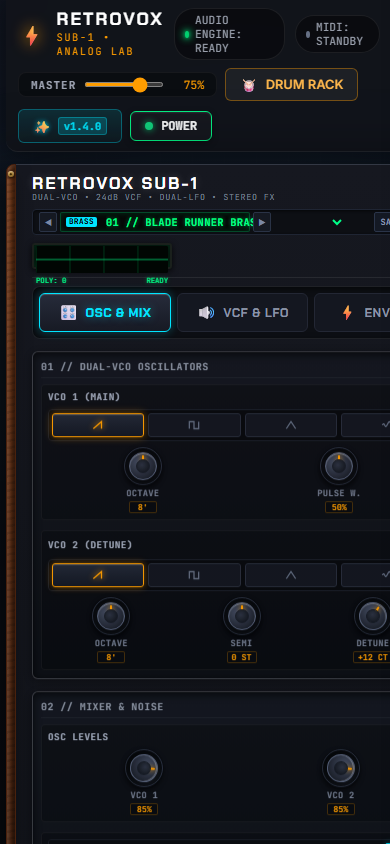
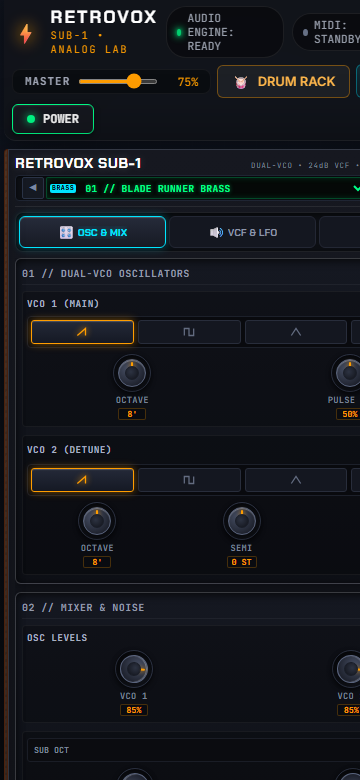
fix(audio): patch v1.6.2 with iOS/iPadOS Safari CoreAudio kickstart & resilient unlock

diff --git a/js/app.js b/js/app.js
@@ -31,7 +31,7 @@ document.addEventListener('DOMContentLoaded', () => {
   const speakerLedRight = document.getElementById('speakerLedRight');
 
   // Version & Changelog State
-  const CURRENT_APP_VERSION = '1.6.1';
+  const CURRENT_APP_VERSION = '1.6.2';
   const STORAGE_KEY_VERSION = 'retrovox_synth_version';
 
   // Changelog Modal Elements
@@ -76,20 +76,59 @@ document.addEventListener('DOMContentLoaded', () => {
     }
   });
 
-  // AudioContext auto-unlock listener on first user interaction anywhere
-  const unlockAudio = () => {
+  // AudioContext auto-unlock listener for Mobile/iPadOS Safari & Desktop
+  const unlockEvents = ['touchstart', 'touchend', 'pointerdown', 'pointerup', 'mousedown', 'click', 'keydown'];
+  const handleUserInteractionUnlock = () => {
     if (audioEngine.isPowered) {
-      const state = audioEngine.initAudio();
-      if (state === 'running') {
+      audioEngine.ensureAudioRunning();
+      if (audioEngine.ctx && audioEngine.ctx.state === 'running') {
         audioStatusBadge.querySelector('.status-label').textContent = 'AUDIO ENGINE: RUNNING';
+        removeUnlockListeners();
       }
     }
   };
 
-  window.addEventListener('pointerdown', unlockAudio, { once: true, capture: true });
-  window.addEventListener('touchstart', unlockAudio, { once: true, capture: true });
-  window.addEventListener('mousedown', unlockAudio, { once: true, capture: true });
-  window.addEventListener('keydown', unlockAudio, { once: true, capture: true });
+  const removeUnlockListeners = () => {
+    unlockEvents.forEach((evt) => {
+      window.removeEventListener(evt, handleUserInteractionUnlock, { capture: true });
+    });
+  };
+
+  unlockEvents.forEach((evt) => {
+    window.addEventListener(evt, handleUserInteractionUnlock, { capture: true, passive: true });
+  });
+
+  // Keep Audio State Badge 100% in sync with Web Audio Context state
+  audioEngine.onAudioStateChange = (state) => {
+    const statusLabel = audioStatusBadge.querySelector('.status-label');
+    if (!audioEngine.isPowered) {
+      statusLabel.textContent = 'AUDIO ENGINE: OFF';
+      return;
+    }
+    if (state === 'running') {
+      statusLabel.textContent = 'AUDIO ENGINE: RUNNING';
+      removeUnlockListeners();
+    } else if (state === 'suspended' || state === 'interrupted') {
+      statusLabel.textContent = 'AUDIO ENGINE: TAP TO ACTIVATE';
+    } else {
+      statusLabel.textContent = `AUDIO ENGINE: ${state.toUpperCase()}`;
+    }
+  };
+
+  // Direct Tap on Audio Status Badge to manually unlock or resume audio
+  audioStatusBadge.style.cursor = 'pointer';
+  audioStatusBadge.addEventListener('click', () => {
+    if (audioEngine.isPowered) {
+      audioEngine.resumeAudio();
+    }
+  });
+
+  // Re-resume audio when returning from background / tab switch on iOS / iPadOS
+  document.addEventListener('visibilitychange', () => {
+    if (document.visibilityState === 'visible' && audioEngine.isPowered) {
+      audioEngine.ensureAudioRunning();
+    }
+  });
 
   // Web MIDI Status listener
   audioEngine.onMidiStateChange = (hasDevices, count) => {

diff --git a/js/audio-engine.js b/js/audio-engine.js
@@ -158,6 +158,41 @@ class AudioEngine {
     // Callbacks for UI updates
     this.onVoiceChange = null;
     this.onMidiStateChange = null;
+    this.onAudioStateChange = null;
+  }
+
+  /**
+   * Resumes and unlocks the Web Audio API context with iOS / iPadOS Safari CoreAudio kickstart.
+   */
+  async resumeAudio() {
+    if (!this.ctx) {
+      this.initAudio();
+    }
+    if (this.ctx && this.ctx.state !== 'running') {
+      try {
+        await this.ctx.resume();
+      } catch (e) {}
+
+      // Kickstart iOS / iPadOS Safari CoreAudio hardware output bus with a 1-sample silent buffer
+      try {
+        const buffer = this.ctx.createBuffer(1, 1, 22050);
+        const source = this.ctx.createBufferSource();
+        source.buffer = buffer;
+        source.connect(this.ctx.destination);
+        source.start(0);
+      } catch (e) {}
+    }
+
+    if (this.onAudioStateChange && this.ctx) {
+      this.onAudioStateChange(this.ctx.state);
+    }
+    return this.ctx ? this.ctx.state : 'uninitialized';
+  }
+
+  ensureAudioRunning() {
+    if (!this.ctx || this.ctx.state !== 'running') {
+      this.resumeAudio();
+    }
   }
 
   /**
@@ -167,6 +202,13 @@ class AudioEngine {
     if (!this.ctx) {
       const AudioCtx = window.AudioContext || window.webkitAudioContext;
       this.ctx = new AudioCtx({ latencyHint: 'interactive' });
+
+      // Listen for hardware audio state transitions
+      this.ctx.onstatechange = () => {
+        if (this.onAudioStateChange) {
+          this.onAudioStateChange(this.ctx.state);
+        }
+      };
 
       // Master Voice Bus
       this.masterVoiceBus = this.ctx.createGain();
@@ -207,8 +249,8 @@ class AudioEngine {
       this.initMidi();
     }
 
-    if (this.ctx.state === 'suspended') {
-      this.ctx.resume();
+    if (this.ctx.state !== 'running') {
+      this.resumeAudio();
     }
 
     return this.ctx.state;
@@ -721,13 +763,9 @@ class AudioEngine {
    */
   noteOn(midiNote, velocity = 1.0) {
     if (!this.isPowered) return;
-    if (!this.ctx) {
-      this.initAudio();
-    } else if (this.ctx.state === 'suspended') {
-      this.ctx.resume();
-    }
+    this.ensureAudioRunning();
 
-    const now = this.ctx.currentTime;
+    const now = this.ctx ? this.ctx.currentTime : 0;
     const voice = this.allocateVoice(midiNote);
     if (!voice) return;
 
@@ -1364,6 +1402,8 @@ class AudioEngine {
     this.isPowered = on;
     if (!on) {
       this.allNotesOff();
+    } else {
+      this.ensureAudioRunning();
     }
   }
 

diff --git a/scripts/capture-screenshots.js b/scripts/capture-screenshots.js
@@ -26,12 +26,12 @@ execSync(`"${CHROME_PATH}" --headless=new --disable-gpu --window-size=1280,720 -
 console.log('2. Capturing mobile screenshot (750x1334)...');
 execSync(`"${CHROME_PATH}" --headless=new --disable-gpu --window-size=750,1334 --screenshot="${mobileShot}" "${fileUrl}#drums"`, { stdio: 'inherit' });
 
-console.log('3. Capturing phone portrait screenshot (390x844)...');
-execSync(`"${CHROME_PATH}" --headless=new --disable-gpu --window-size=390,844 --screenshot="${phonePortraitShot}" "${fileUrl}#synth"`, { stdio: 'inherit' });
+console.log('3. Capturing phone portrait screenshot (360x780)...');
+execSync(`"${CHROME_PATH}" --headless=new --disable-gpu --window-size=360,780 --screenshot="${phonePortraitShot}" "${fileUrl}#synth"`, { stdio: 'inherit' });
 
 const phoneFullShot = path.join(screenshotsDir, 'screenshot-phone-full.png');
-console.log('4. Capturing phone full-page screenshot (390x1400)...');
-execSync(`"${CHROME_PATH}" --headless=new --disable-gpu --window-size=390,1400 --screenshot="${phoneFullShot}" "${fileUrl}#synth"`, { stdio: 'inherit' });
+console.log('4. Capturing phone full-page screenshot (360x1200)...');
+execSync(`"${CHROME_PATH}" --headless=new --disable-gpu --window-size=360,1200 --screenshot="${phoneFullShot}" "${fileUrl}#synth"`, { stdio: 'inherit' });
 
 console.log('✓ Desktop screenshot:', fs.statSync(desktopShot).size, 'bytes');
 console.log('✓ Mobile screenshot:', fs.statSync(mobileShot).size, 'bytes');

diff --git a/index.html b/index.html
@@ -131,7 +131,7 @@ window.addEventListener('DOMContentLoaded', () => {
         <button class="btn btn-outline changelog-trigger-btn" id="openChangelogBtn">
           <span class="changelog-sparkle">✨</span>
           <span>Was gibt's Neues?</span>
-          <span class="version-tag">v1.6.1</span>
+          <span class="version-tag">v1.6.2</span>
         </button>
         <button class="power-switch-btn" id="mainPowerBtn" title="Synthesizer Ein-/Ausschalten">
           <span class="power-indicator"></span>
@@ -1221,11 +1221,11 @@ window.addEventListener('DOMContentLoaded', () => {
         <div class="modal-title-group">
           <div class="version-release-header">
             <span class="badge-tag-release">NEUE VERSION</span>
-            <span class="release-version-number">v1.6.1</span>
+            <span class="release-version-number">v1.6.2</span>
             <span class="release-date-tag">August 2026</span>
           </div>
           <h2>Was gibt's Neues im RETROVOX SUB-1</h2>
-          <p class="modal-subtitle">Calibrated LFO Vibrato Scaling • Beatbox Matrix & Touch Precision</p>
+          <p class="modal-subtitle">iPadOS & iOS Safari CoreAudio Resilience • Reliable Audio Unlock</p>
         </div>
         <button class="modal-close-btn" id="closeChangelogBtn" aria-label="Schließen">&times;</button>
       </div>

diff --git a/js/drum-engine.js b/js/drum-engine.js
@@ -266,9 +266,12 @@ class DrumEngine {
    */
   start() {
     this.initAudio();
+    if (this.synthAudio) {
+      this.synthAudio.ensureAudioRunning();
+    }
     if (!this.ctx) return;
-    if (this.ctx.state === 'suspended') {
-      this.ctx.resume();
+    if (this.ctx.state !== 'running') {
+      this.ctx.resume().catch(() => {});
     }
 
     this.isPlaying = true;

diff --git a/sw.js b/sw.js
@@ -1,10 +1,10 @@
 /**
  * RETROVOX SUB-1 • Service Worker (App Shell & Offline Precache)
- * Version: 1.6.1
+ * Version: 1.6.2
  * Pure Native Standards (Zero Bundlers / Zero Build Steps)
  */
 
-const CACHE_VERSION = 'v1.6.1';
+const CACHE_VERSION = 'v1.6.2';
 const SHELL_CACHE = `retrovox-shell-${CACHE_VERSION}`;
 const FONT_CACHE = 'retrovox-fonts-v1';
 

diff --git a/README.md b/README.md
@@ -1,6 +1,6 @@
 # 🎹 RETROVOX SUB-1 & RETROBEAT D-909 • Analog Synthesizer & Drum Studio
 
-[![Version](https://img.shields.io/badge/Version-1.6.1-00E5FF?style=flat-square)](#)
+[![Version](https://img.shields.io/badge/Version-1.6.2-00E5FF?style=flat-square)](#)
 [![Web Audio API](https://img.shields.io/badge/Web_Audio-DSP_Core-00FF88?style=flat-square)](#)
 [![Web MIDI API](https://img.shields.io/badge/Web_MIDI-Plug_%26_Play-FF9D00?style=flat-square)](#)
 [![PWA Ready](https://img.shields.io/badge/PWA-100%25_Offline-9900FF?style=flat-square)](#)
@@ -10,13 +10,11 @@ Ein authentischer analoger Synthesizer (**RETROVOX SUB-1**) und eine DSP Drum & 
 
 ---
 
-### ⚡ NEU in v1.6.1: Kalibriertes LFO-Pitch-Tracking & Musikalische Vibrato-Skalierung
-- **🎵 Kalibrierte LFO-Pitch-Modulation:** Der Modulationsbereich für Tonhöhen-Vibrato wurde von $\pm 1200\,\text{Cents}$ auf feinfühlige $\pm 200\,\text{Cents}$ ($\pm 2\,\text{Halbtöne}$) optimiert. Selbst bei $10\text{--}30\,\%$ Potentiometerstellung entsteht ein warmer, musikalischer Vintage-Vibrato-Effekt statt starker Tonhöhen-Verstimmung.
-- **🥁 16-Step Beatbox Matrix Synchronisation:** Perfekte pixelgenaue Ausrichtung der 16 Step-Buttons mit der LED-Lauflicht-Leiste und sanftes horizontales Scrollen auf Smartphones.
-- **🎚 Optimierter Swing-Fader:** Saubere Trennung von Slider und Beschriftung ohne Überlappungen in Chrome und Firefox.
-- **📱 Responsive Modul-Tabs:** Nahtloses Umschalten zwischen Klangmodulen (`OSC & MIX`, `VCF & LFO`, `ENV & FX`) auf Smartphones und schmalen Bildschirmen.
-- **🎹 Multi-Touch Glissando & Scrollbare Klaviatur:** Präzise Daumen- und Fingersteuerung für 25 Tasten auf Touchscreens ohne Notenhänger.
-- **🔇 Preset Audio Polish:** Vollständig entkoppelte Idle-VCA-Stufen für absolute Stille beim Preset-Wechsel – Noten erklingen erst bei echtem Tastenanschlag.
+### ⚡ NEU in v1.6.2: iOS & iPadOS Safari CoreAudio Entsperrung & Resilientes Audio-Unlocking
+- **🍎 iOS / iPadOS Safari CoreAudio Kickstart:** Zuverlässige Hardware-Entsperrung des Audio-Outputs via 1-Sample-Silent-Buffer beim ersten Touch- oder Tastenanschlag.
+- **🔄 Resilientes Unlock-Handling:** Unlock-Listener bleiben aktiv, bis der `AudioContext` verifiziert den Status `running` erreicht hat (keine Notenaussetzer mehr nach Hardware-Keyboard-Eingaben).
+- **👆 Interaktiver Audio-Status-Badge (Tap-to-Activate):** Der `AUDIO ENGINE`-Badge im Header zeigt den echten Zustand an und kann bei Audio-Unterbrechungen (z. B. nach App-Wechsel auf dem iPad) direkt angetippt werden.
+- **👁 Automatischer Re-Resume bei Tab-Rückkehr:** Nahtlose Reaktivierung der Audio-Engine bei Rückkehr aus dem Hintergrund (`visibilitychange`).
 
 ---
 

diff --git a/AGENTS.md b/AGENTS.md
@@ -27,7 +27,7 @@ websynth/
 ├── index.html              # HTML5 Studio Desk Layout, Modals & Control Housings
 ├── manifest.webmanifest    # W3C Web App Manifest (PWA Standalone Configuration)
 ├── sw.js                   # Service Worker (App Shell & Google WebFonts Offline Cache)
-├── package.json            # Versioning (v1.6.1), scripts & metadata
+├── package.json            # Versioning (v1.6.2), scripts & metadata
 ├── README.md               # User & feature documentation
 ├── AGENTS.md               # Developer & agent architectural guide
 ├── icons/                  # Retina & Maskable App Icons (SVG + PNG)
